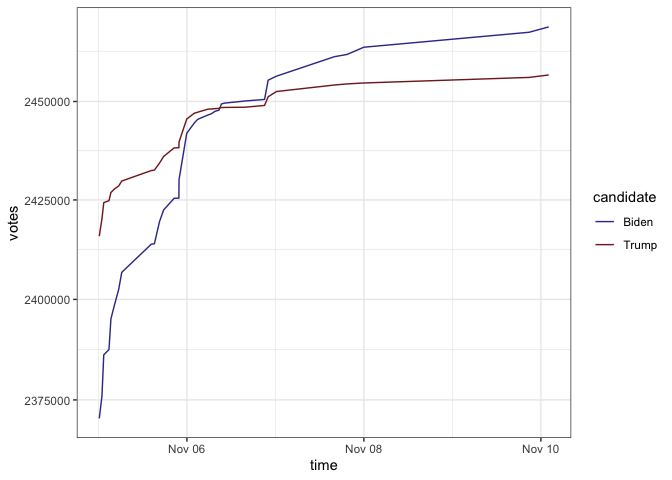
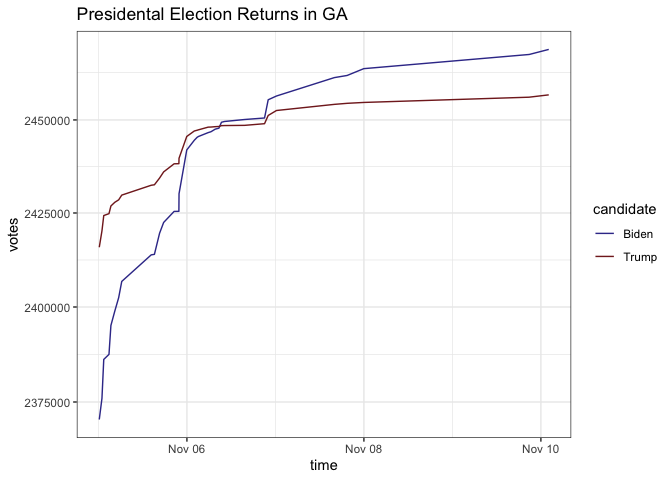
Add title to plot

diff --git a/README.md b/README.md
@@ -37,6 +37,7 @@ ggplot(ga, aes(x = time, y = votes, color = candidate)) +
   scale_y_log10() + 
   scale_color_manual(values = c("Biden" = scales::muted("blue"),
                                 "Trump" = scales::muted("red"))) + 
+  labs(title = "Presidental Election Returns in GA") + 
   theme_bw()
 ```
 
